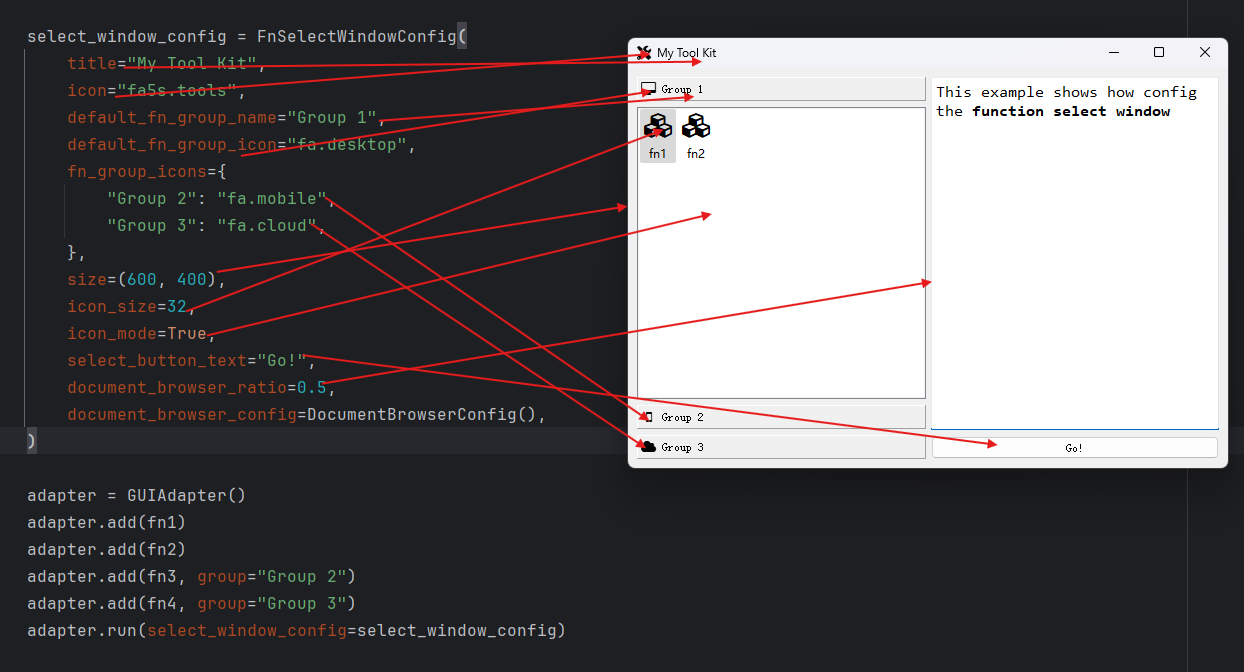
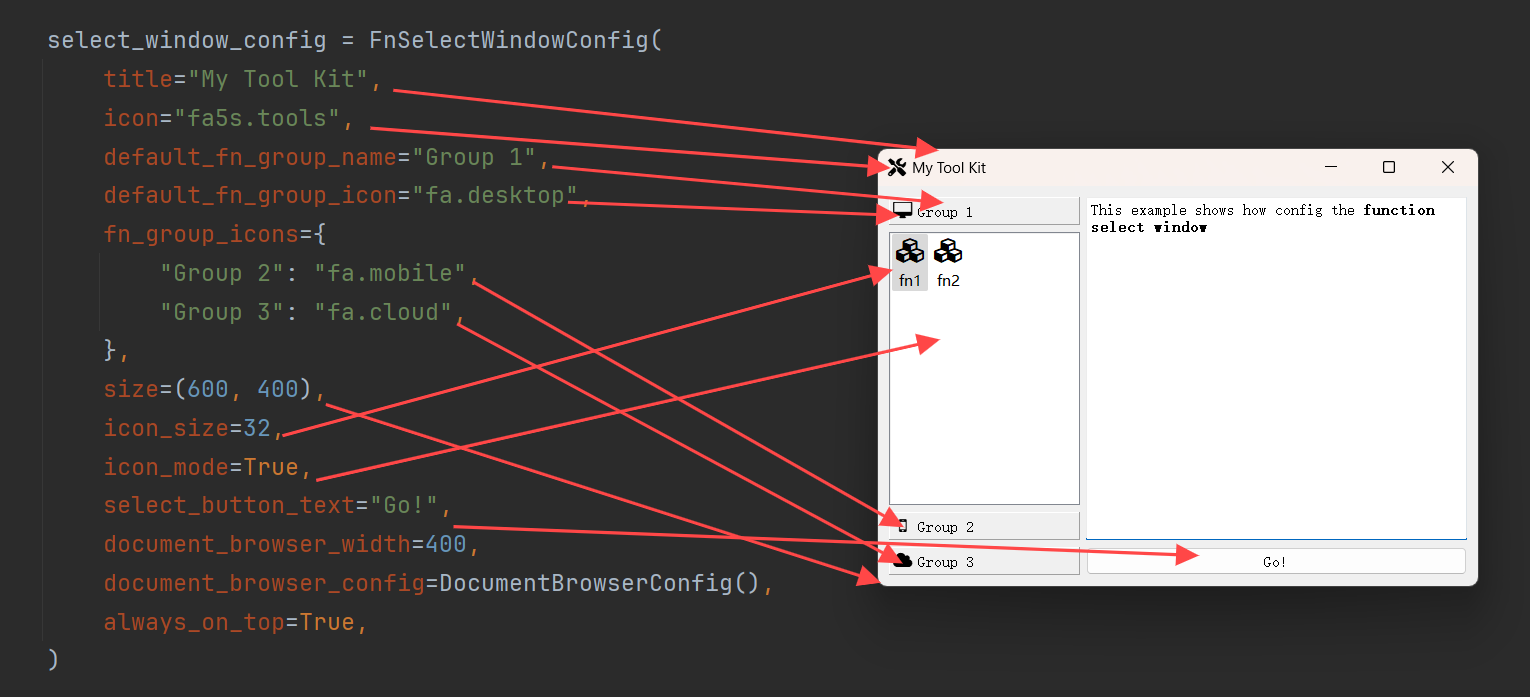
docs(v2): improve docs

diff --git a/docs/windows/fn_select_window.md b/docs/windows/fn_select_window.md
@@ -36,12 +36,12 @@ adapter.run(show_select_window=True)
 
 
 
-|        配置项名称         |                             类型                             |       默认值        |                             说明                             |
-| :-----------------------: | :----------------------------------------------------------: | :-----------------: | :----------------------------------------------------------: |
+|        配置项名称         |                             类型                             |         默认值         |                             说明                             |
+| :-----------------------: | :----------------------------------------------------------: |:-------------------:| :----------------------------------------------------------: |
 |          `title`          |                            `str`                             | `"Select Function"` |                          窗口标题。                          |
-|          `icon`           | `Union[str, Tuple[str, Union[list, dict]], QIcon, QPixmap, NoneType]` |       `None`        |                          窗口图标。                          |
+|          `icon`           | `Union[str, Tuple[str, Union[list, dict]], QIcon, QPixmap, NoneType]` |       `None`        |          窗口图标。默认为`None`，此时使用默认图标。          |
 |          `size`           |               `Union[Tuple[int, int], QSize]`                |    `(800, 600)`     |                          窗口大小。                          |
-|        `position`         |              `Union[Tuple[int, int], NoneType]`              |       `None`        |                          窗口位置。                          |
+|        `position`         |              `Union[Tuple[int, int], NoneType]`              |       `None`        |      窗口位置。默认为`None`，此时由系统决定，一般居中。      |
 |      `always_on_top`      |                       `<class 'bool'>`                       |       `False`       |                      窗口是否始终置顶。                      |
 |       `font_family`       |            `Union[str, Sequence[str], NoneType]`             |       `None`        |                       窗口的字体系列。                       |
 |        `font_size`        |                    `Union[int, NoneType]`                    |       `None`        |                       窗口的字体大小。                       |
@@ -49,13 +49,13 @@ adapter.run(show_select_window=True)
 |   `select_button_text`    |                            `str`                             |     `"Select"`      |                       选择按钮的文本。                       |
 |        `icon_mode`        |                            `bool`                            |       `False`       |           是否以图标形式显示函数，默认为列表形式。           |
 |        `icon_size`        |          `Union[Tuple[int, int], QSize, NoneType]`           |     `(48, 48)`      |                       函数图标的尺寸。                       |
-|  `default_fn_group_name`  |                            `str`                             |  `"Main Function"`  | 默认函数分组的名称。在添加函数到`GUIAdapter`时，若开发者未指定函数分组，则该函数将被添加的默认分组下，这个属性就是用于指定该分组的名称。 |
-|  `default_fn_group_icon`  | `Union[str, Tuple[str, Union[list, dict]], QIcon, QPixmap, NoneType]` |       `None`        |                     默认函数分组的图标。                     |
+|  `default_fn_group_name`  |                            `str`                             | `"Main Functions"`  | 默认函数分组的名称。在添加函数到`GUIAdapter`时，若开发者未指定函数分组，则该函数将被添加的默认分组下，这个属性就是用于指定该分组的名称。 |
+|  `default_fn_group_icon`  | `Union[str, Tuple[str, Union[list, dict]], QIcon, QPixmap, NoneType]` |       `None`        |       默认函数分组的图标。默认为`None`，即不显示图标。       |
 |     `fn_group_icons`      | `Dict[str, Union[str, Tuple[str, Union[list, dict]], QIcon, QPixmap, NoneType]]` |        `{}`         |                     其他函数分组的图标。                     |
-| `document_browser_config` |           `Union[DocumentBrowserConfig, NoneType]`           |       `None`        |                    函数文档浏览器的配置。                    |
-| `document_browser_ratio`  |                           `float`                            |       `0.65`        |                函数文档浏览器区域的宽度占比。                |
+| `document_browser_config` |           `Union[DocumentBrowserConfig, NoneType]`           |       `None`        |    函数文档浏览器的配置，默认为`None`，意味使用默认配置。    |
+| `document_browser_width`  |                           `float`                            |        `490`        |                  函数文档浏览器区域的宽度。                  |
 
-`DocumentBrowserConfig`类用于配置文档浏览器，在[`pyguiadapter.windows._docbrowser.DocumentBrowserConfig`]()中定义，可以通过如下方式引入：
+`DocumentBrowserConfig`类用于配置文档浏览器，该类在[`pyguiadapter.windows.document_browser.DocumentBrowserConfig`]()中定义，可以通过如下方式引入：
 
 ```python
 from pyguiadapter.windows import DocumentBrowserConfig
@@ -77,11 +77,13 @@ from pyguiadapter.windows import DocumentBrowserConfig
 
 #### （二）配置窗口属性的方法
 
-开发者可以通过`GUIAdapter.run()`函数来配置`函数选择窗口（FnSelectWindow）`的窗口属性。
+开发者可以通过`GUIAdapter.run()`函数来配置`函数选择窗口（FnSelectWindow）`的属性。
 
 <img src="../images/fn_select_window_config_3.png" />
 
 下面是一个完整的示例：
+
+> [examples/windows/fn_select_window_config_example.py]()
 
 ```python
 from pyguiadapter.adapter import GUIAdapter
@@ -132,7 +134,7 @@ if __name__ == "__main__":
         icon_size=32,
         icon_mode=True,
         select_button_text="Go!",
-        document_browser_ratio=0.5,
+        document_browser_width=400,
         document_browser_config=DocumentBrowserConfig(),
     )
 
@@ -142,6 +144,7 @@ if __name__ == "__main__":
     adapter.add(fn3, group="Group 2")
     adapter.add(fn4, group="Group 3")
     adapter.run(select_window_config=select_window_config)
+
 ```
 
 <img src="../images/fn_select_window_config_2.png" />
@@ -155,6 +158,8 @@ if __name__ == "__main__":
 <img src="../images/fn_select_window_config_4.png" />
 
 下面是一个完整的示例：
+
+> [examples/windows/toolbar_example2.py]()
 
 ```python
 from qtpy.QtWidgets import QAction
@@ -204,6 +209,8 @@ if __name__ == "__main__":
 
 下面是一个完整的示例：
 
+> [examples/windows/menu_example_3.py]()
+
 ```python
 from qtpy.QtWidgets import QAction
 
@@ -234,7 +241,7 @@ action_test = ActionConfig(
     text="Test", icon="fa.folder-open", on_triggered=on_action_test, shortcut="Ctrl+O"
 )
 action_close = ActionConfig(
-    text="Close", icon="fa.folder-open", on_triggered=on_action_close, shortcut="Ctrl+Q"
+    text="Close", icon="fa.close", on_triggered=on_action_close, shortcut="Ctrl+Q"
 )
 
 
@@ -266,6 +273,8 @@ if __name__ == "__main__":
 <img src="../images/fn_select_window_config_8.png" />
 
 下面是一个完整的示例：
+
+> [examples/windows/menu_example_3.py]()
 
 ```python
 from pyguiadapter.adapter import GUIAdapter
@@ -331,5 +340,17 @@ if __name__ == "__main__":
 
 
 
+### 六、主要接口
 
+`FnSelectWindow`主要提供了以下接口供开发者调用：
 
+> 由于`FnSelectWindow`继承自`BaseWindow`，因此`FnSelectWindow`中包含了从`BaseWindow`继承而来的接口，具体可以参考：[窗口概述](windows/overview.md)
+
+```python
+class FnSelectWindow(BaseWindow):
+    def set_select_button_text(self, text: str):
+        ...
+
+    def set_document_browser_width(self, width: int):
+        ...
+```

diff --git a/docs/windows/overview.md b/docs/windows/overview.md
@@ -14,7 +14,11 @@
 
 #### （二）主要接口
 
-父类`BaseWindow`中定义并实现了如下接口。
+父类`BaseWindow`中定义并实现了一些基本的接口，开发者可以在`动作（Action）`或窗口事件的回调函数中调用这些接口。
+
+##### 1、`动作（Action）`相关
+
+以下接口主要用于查找或改变窗口工具栏（菜单栏）中`动作（Action）`的状态。
 
 ```python
 class BaseWindow(QMainWindow):
@@ -31,7 +35,59 @@ class BaseWindow(QMainWindow):
         ...
 ```
 
-上述接口主要用于查找或改变窗口工具栏（菜单栏）中`动作（Action）`的状态，开发者可以在`动作（Action）`或窗口事件的回调函数中调用这些方法。
+##### 2、窗口属性相关
+
+以下接口主要用于设置或获取窗口的某些属性，包括标题、图标、大小、位置、字体、样式、是否置顶等。
+
+```python
+class BaseWindow(QMainWindow):
+    def set_title(self, title: str):
+        ...
+
+    def get_title(self) -> str:
+        ...
+
+    def set_icon(self, icon: IconType):
+        ...
+
+    def set_always_on_top(self, enabled: bool):
+        ...
+
+    def is_always_on_top(self) -> bool:
+        ...
+
+    def set_size(self, size: Union[Tuple[int, int], QSize]):
+        ...
+
+    def get_size(self) -> Tuple[int, int]:
+        ...
+
+    def set_position(self, position: Optional[Tuple[int, int]]):
+        ...
+
+    def get_position(self) -> Tuple[int, int]:
+        ...
+
+    def set_font(self, font_family: Union[str, Sequence[str]], font_size: int):
+        ...
+
+    def get_font_size(self) -> int:
+        ...
+
+    def get_font_family(self) -> str:
+        ...
+
+    def get_font_families(self) -> Sequence[str]:
+        ...
+
+    def set_stylesheet(self, stylesheet: Optional[str]):
+        ...
+
+    def get_stylesheet(self) -> str:
+        ...
+```
+
+
 
 #### （三）主要子类
 

diff --git a/docs/adapter/multiple_functions.md b/docs/adapter/multiple_functions.md
@@ -210,9 +210,9 @@ if __name__ == "__main__":
 
 ### 四、函数分组
 
-当开发者向`GUIAdapter`实例添加了多个函数时，从便于用户查找的角度出发，开发者可能希望可以按照一定的逻辑对函数进行分类。`PyGUIAdapter`提供了函数分组功能，开发者在调用`GUIAdapter.add()`方法添加函数时，可以通过`group`参数指定函数的分组，`PyGUIAdapter`会将相同`group`的函数聚合到一起；对于未指定`group`的函数，`PyGUIAdapter`则会将其放置在默认分组中，该分组的默认名称为`"Main Function"`。
+当开发者向`GUIAdapter`实例添加了多个函数时，从便于用户查找的角度出发，开发者可能希望可以按照一定的逻辑对函数进行分类。`PyGUIAdapter`提供了函数分组功能，开发者在调用`GUIAdapter.add()`方法添加函数时，可以通过`group`参数指定函数的分组，`PyGUIAdapter`会将相同`group`的函数聚合到一起；对于未指定`group`的函数，`PyGUIAdapter`则会将其放置在默认分组中，该分组的默认名称为`"Main Functions"`。
 
-比如下面这个示例，将函数按照功能分成了三类：编码器函数`Encoders`、解码器函数`Decoder`和其他函数（默认分组）`Main Function`。
+比如下面这个示例，将函数按照功能分成了三类：编码器函数`Encoders`、解码器函数`Decoder`和其他函数（默认分组）`Main Functions`。
 
 ```python
 from pyguiadapter.adapter import GUIAdapter
